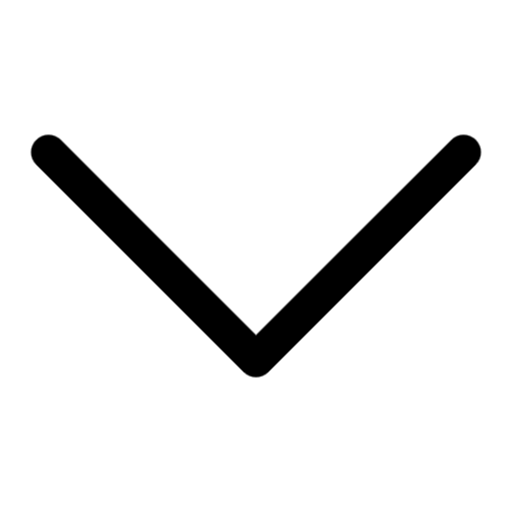
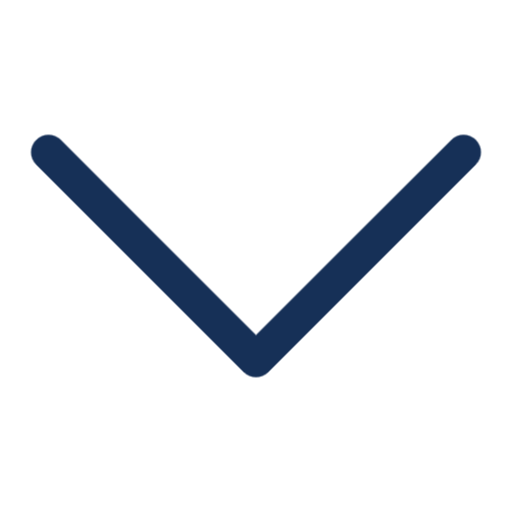
added down arrow to homepage

Changed region(s): [[0.0625, 0.25, 0.9375, 0.75]]

diff --git a/index.html b/index.html
@@ -191,9 +191,15 @@
         </div>
         <div class="sprinkle">
         </div>
+
+        <div class="down-arrow">
+          <a href="#new-carousel" >
+            <img src="images/arrow.png">
+          </a>
+        </div>
       </div>
 
-      <div class="new-carousel carouselWrapper">                
+      <div id="new-carousel" class="new-carousel carouselWrapper">                
         <div class="carouselContainer">
             <div class="carouselItem">
                 <img src="images/matt_bobby1.jpg"

diff --git a/scss/_sprinkles.scss b/scss/_sprinkles.scss
@@ -402,7 +402,24 @@ $dark-chocolate:  #490206;
             width: 12px;
         }
       }
+}
+
+.down-arrow {
+    position: absolute;
+    bottom: 0;
+    left: 47%;
+
+    img {
+        height: 64px;
+    }
+
+    a {
+        border-bottom: none;
+
+        &:hover {
+            border-bottom: none;
     
-   
+        }
+    }
     
 }

diff --git a/style.scss b/style.scss
@@ -34,6 +34,7 @@ body {
     overflow-x: hidden;
     overflow-y: auto;
     margin: 0 auto;
+    scroll-behavior: smooth;
 }
 
 body {
